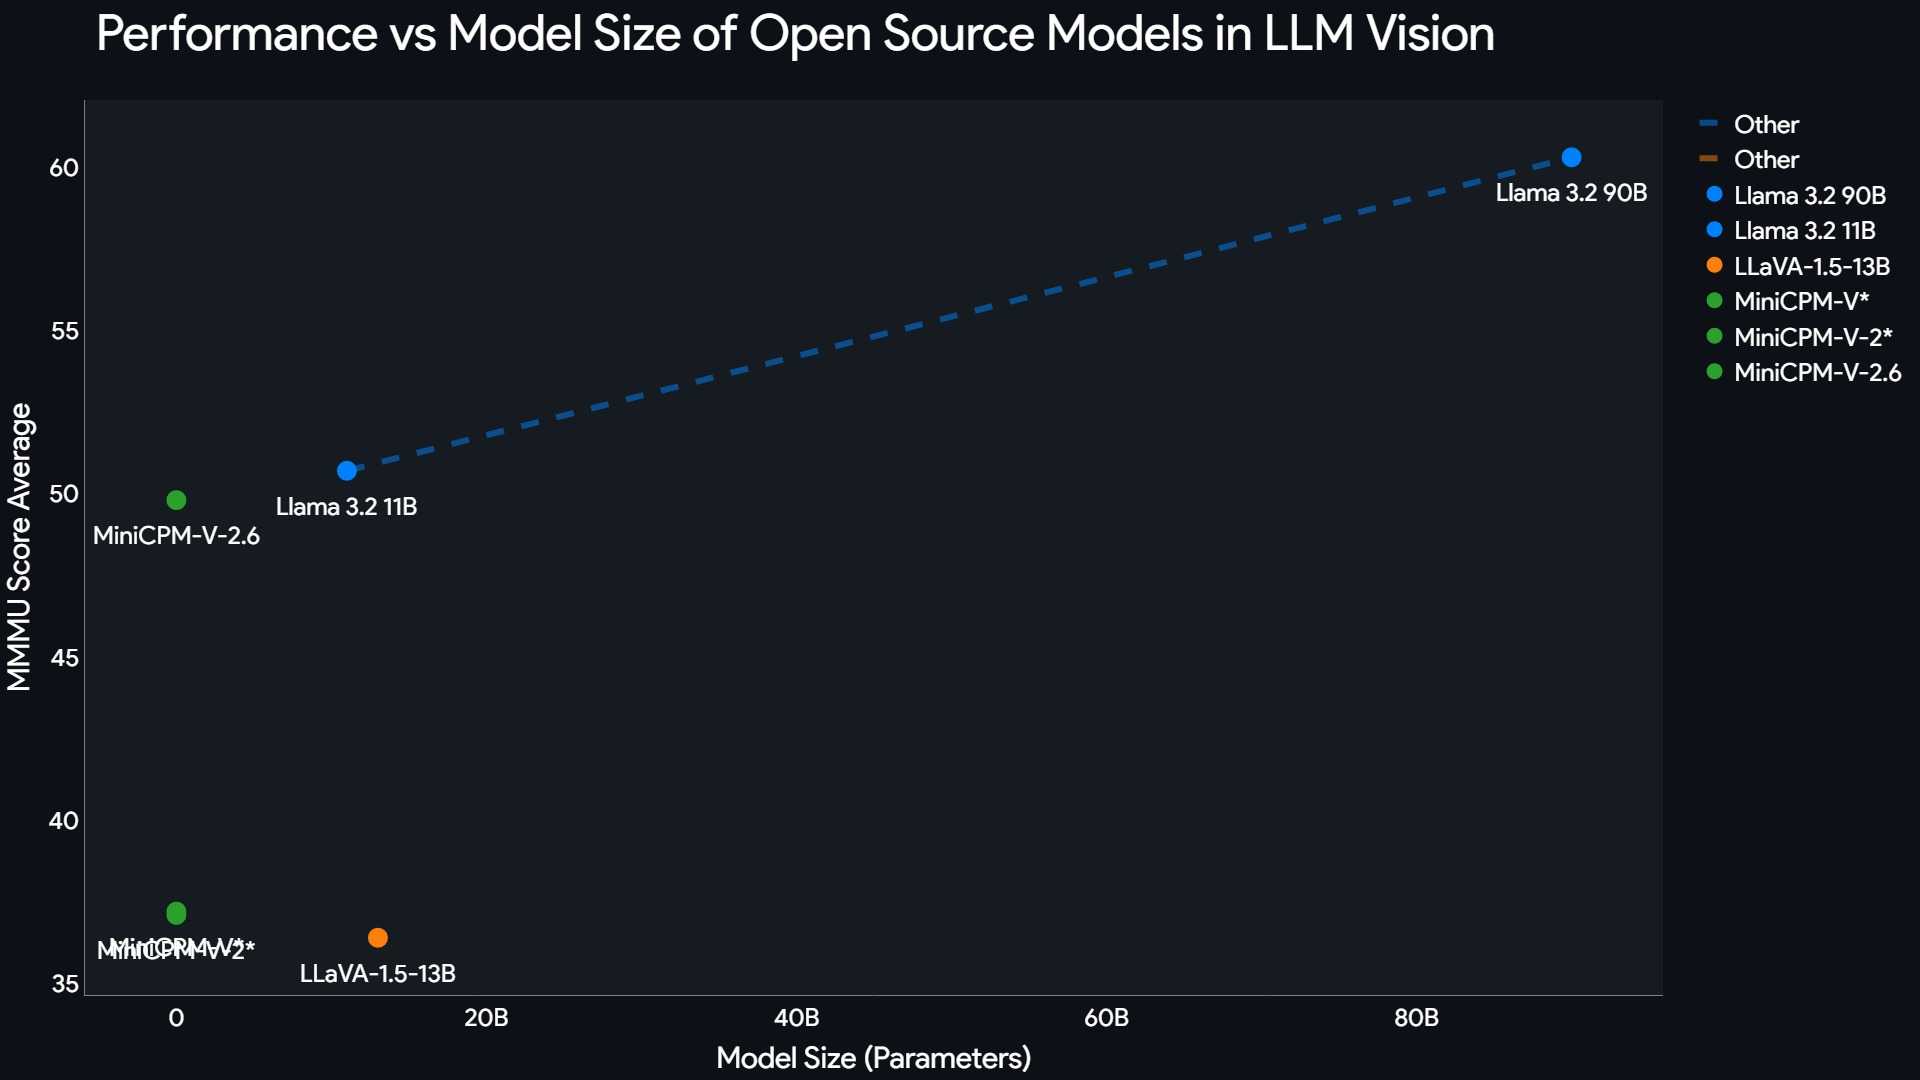
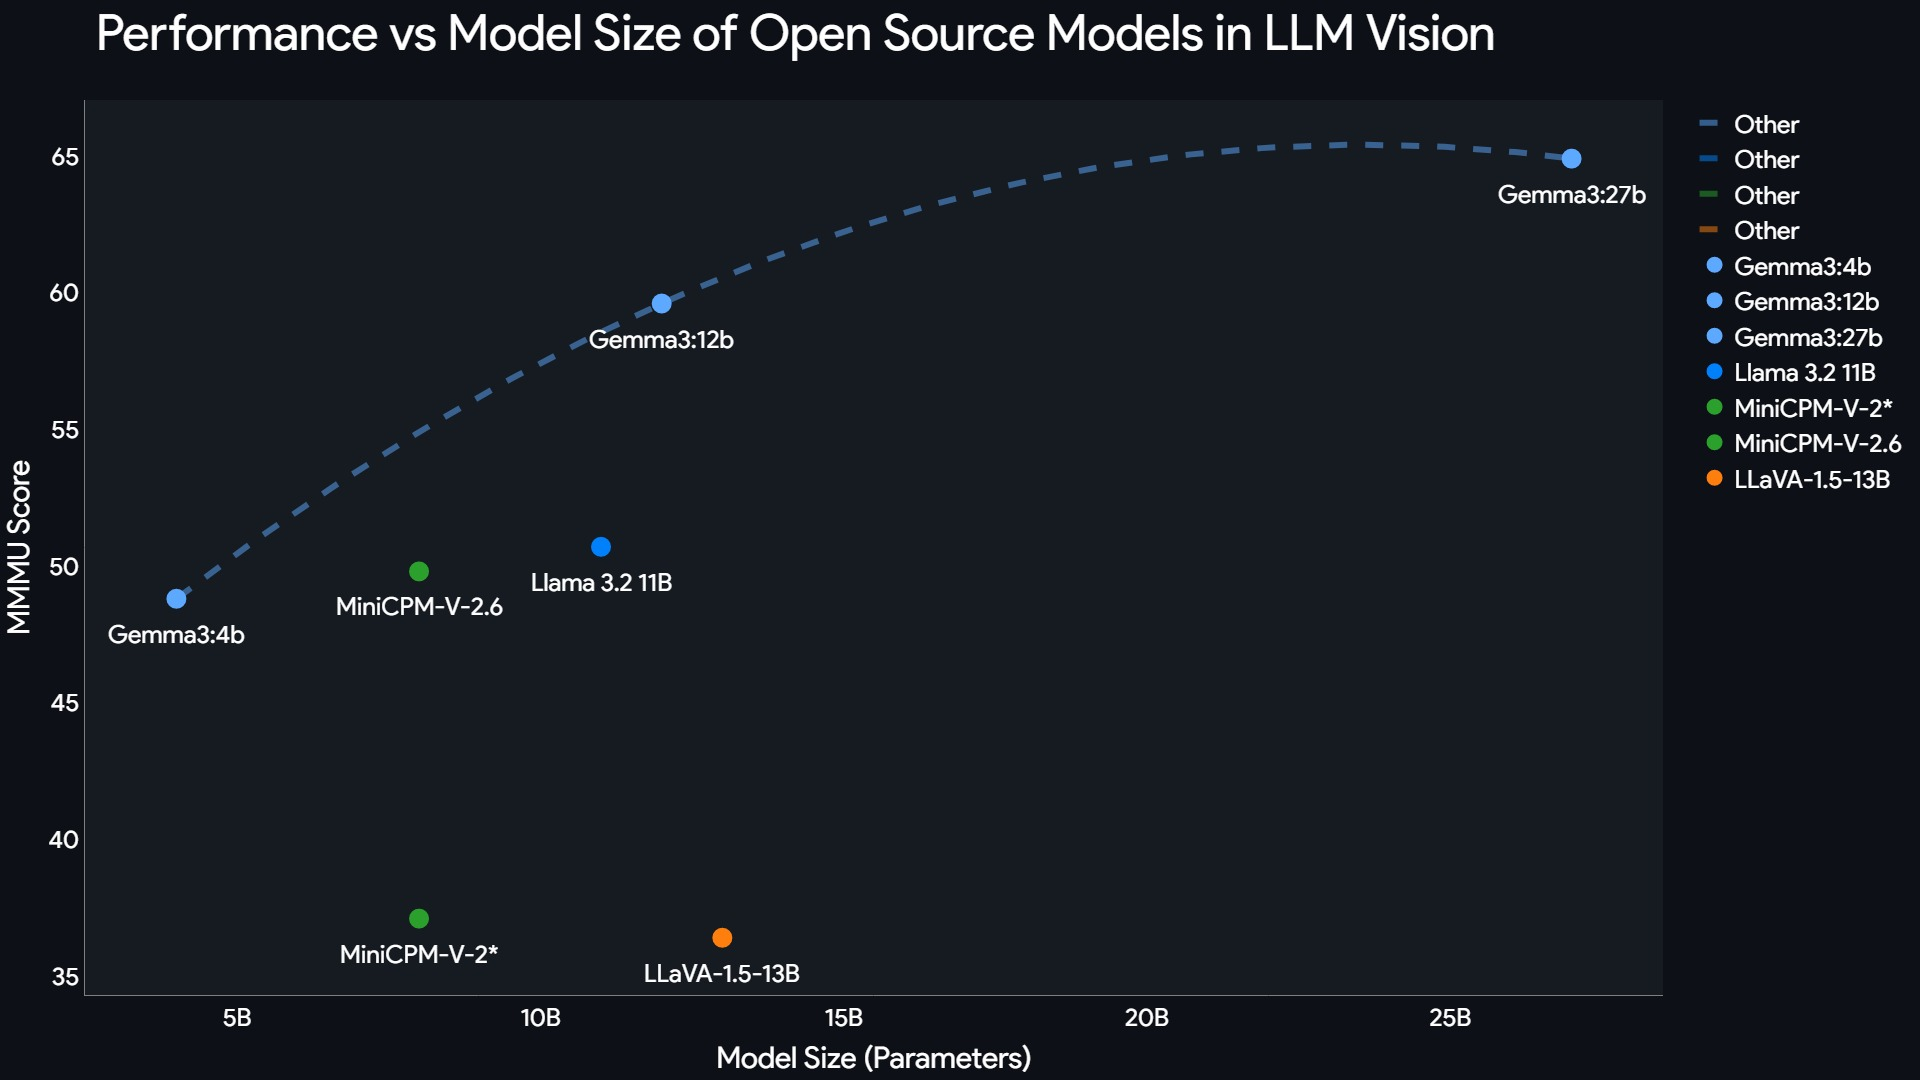
Update MMMU benchmark data and visualizations

diff --git a/benchmark_visualization/model_benchmark_visualizer.py b/benchmark_visualization/model_benchmark_visualizer.py
@@ -18,12 +18,18 @@ def read_benchmark_data(file_path="./benchmark_visualization/benchmark_data.csv"
 def category_name(model_name):
     if "GPT-4" in model_name:
         return 'OpenAI GPT-4'
+    elif model_name == 'o1':
+        return 'OpenAI o1'
+    elif "Claude 3.7" in model_name:
+        return 'Anthropic Claude 3.7'
     elif "Claude 3.5" in model_name:
         return 'Anthropic Claude 3.5'
     elif "Claude 3" in model_name:
         return 'Anthropic Claude 3'
     elif "Gemini 1.5" in model_name:
         return 'Google Gemini 1.5'
+    elif "Gemini 2.0" in model_name:
+        return 'Google Gemini 2.0'
     elif "Llama 3.2" in model_name:
         return 'Meta Llama 3.2'
     return 'Other'
@@ -36,34 +42,40 @@ def create_benchmark_visualization(df: pd.DataFrame):
         """Categories models based on name"""
         if "GPT-4" in model_name:
             return 'GPT-4'
+        elif "Claude 3.7" in model_name:
+            return 'Claude 3.7'
         elif "Claude 3.5" in model_name:
             return 'Claude 3.5'
         elif "Claude 3" in model_name:
             return 'Claude 3'
         elif "Gemini 1.5" in model_name:
             return 'Gemini 1.5'
+        elif "Gemini 2.0" in model_name:
+            return 'Gemini 2.0'
         return 'Other'
 
     # Categorize each model in the DataFrame
     df['Category'] = df['Model'].apply(categorize_model)
 
     # Set order for legend
-    category_order = ['GPT-4', 'Claude 3',
-                      'Claude 3.5', 'Gemini 1.5']
+    category_order = ['GPT-4', 'Claude 3.7', 'Claude 3.5',
+                      'Claude 3', 'Gemini 2.0', 'Gemini 1.5']
     df['Category'] = pd.Categorical(
         df['Category'], categories=category_order, ordered=True)
     df = df.sort_values('Category')
 
     # Set colors for different providers
     colors = {'GPT-4': '#00cbbf', 'Claude 3': '#d97857',
-              'Gemini 1.5': '#5da9ff', 'Claude 3.5': '#d4a27f', 'Other': 'gray'}
+              'Gemini 1.5': '#5da9ff', 'Gemini 2.0': '#5da9ff', 'Claude 3.5': '#d4a27f', 'Claude 3.7': '#d4a27f', 'Other': 'gray'}
 
     for category, group_df in df.groupby('Category'):
-        if category not in ['GPT-4', 'Claude 3', 'Claude 3.5', 'Gemini 1.5', 'Other']:
+        if category not in ['GPT-4', 'Claude 3', 'Claude 3.5', 'Claude 3.7', 'Gemini 2.0', 'Gemini 1.5', 'Other']:
             continue
 
         x = group_df['Cost'].astype(float)
         y = group_df['Overall'].astype(float)
+
+        print(f"Category: {category}, x: {x}, y: {y}")
 
         try:
             # Fit a polynomial
@@ -97,7 +109,7 @@ def create_benchmark_visualization(df: pd.DataFrame):
 
     fig.update_layout(title={'text': 'Performance vs Cost of Cloud-Based Models in LLM Vision',
                              'font': {'size': 50}},
-                      xaxis_title='$/1M Input Tokens', yaxis_title='MMMU Score Average',
+                      xaxis_title='$/1M Input Tokens', yaxis_title='MMMU Score',
                       paper_bgcolor='#0d1117', plot_bgcolor='#161b22',
                       font=dict(color='white', family='Product Sans', size=25),
                       xaxis=dict(color='white', linecolor='grey',
@@ -115,30 +127,34 @@ def create_benchmark_visualization(df: pd.DataFrame):
         """Categories open source models based on name"""
         if "Llama" in model_name:
             return 'Llama'
+        elif "Gemma" in model_name:
+            return 'Gemma'
         elif "LLaVA" in model_name:
             return 'LLaVA'
         elif "MiniCPM" in model_name:
             return 'MiniCPM'
+        elif 'Qwen' in model_name:
+            return 'Qwen'
         return 'Other'
 
     # Categorize each open source model in the DataFrame
     df['OpenSourceCategory'] = df['Model'].apply(categorize_open_source_model)
 
     # Set order for legend
-    open_source_category_order = ['Llama', 'LLaVA', 'MiniCPM']
+    open_source_category_order = ['Gemma', 'Llama', 'Qwen', 'MiniCPM', 'LLaVA']
     df['OpenSourceCategory'] = pd.Categorical(
         df['OpenSourceCategory'], categories=open_source_category_order, ordered=True)
     df = df.sort_values('OpenSourceCategory')
 
     # Set colors for different open source models
-    open_source_colors = {'Llama': '#0081fb',
-                          'LLaVA': '#ff7f0e', 'MiniCPM': '#2ca02c', 'Other': 'gray'}
+    open_source_colors = {'Gemma': '#5da9ff', 'Llama': '#0081fb',
+                          'LLaVA': '#ff7f0e', 'MiniCPM': '#2ca02c', 'Qwen': 'gray', 'Other': 'gray'}
 
     # Convert 'Size' column to float
     def convert_size_to_float(size_str):
         """Convert model size string to float"""
         size_str = size_str.strip()  # Remove leading/trailing spaces
-        if size_str == "-":
+        if size_str == "-" or size_str == "":
             return 0
         if size_str.endswith('B'):
             return float(size_str[:-1]) * 1e9
@@ -149,7 +165,7 @@ def create_benchmark_visualization(df: pd.DataFrame):
     df['Size'] = df['Size'].apply(convert_size_to_float)
 
     for category, group_df in df.groupby('OpenSourceCategory'):
-        if category not in ['Llama', 'LLaVA', 'MiniCPM']:
+        if category not in open_source_category_order:
             continue
 
         x = group_df['Size'].astype(float)
@@ -168,7 +184,7 @@ def create_benchmark_visualization(df: pd.DataFrame):
 
             # Plot the poly line
             fig_open_source.add_trace(go.Scatter(x=x_poly, y=y_poly, mode='lines',
-                          name=f"{category_name(category)}", line=dict(color=open_source_colors[category], width=6, dash='dash'), opacity=0.5))
+                                                 name=f"{category_name(category)}", line=dict(color=open_source_colors[category], width=6, dash='dash'), opacity=0.5))
         except np.linalg.LinAlgError:
             print(f"LinAlgError: SVD did not converge for category {category}")
             continue
@@ -177,30 +193,31 @@ def create_benchmark_visualization(df: pd.DataFrame):
     for index, model in df.iterrows():
         try:
             fig_open_source.add_trace(go.Scatter(x=[model['Size']], y=[model['Overall']],
-                                     mode='markers',  # Removed 'text' from mode
-                                     name=model['Model'], marker=dict(size=20, color=open_source_colors[model['OpenSourceCategory']])))
+                                                 mode='markers',  # Removed 'text' from mode
+                                                 name=model['Model'], marker=dict(size=20, color=open_source_colors[model['OpenSourceCategory']])))
 
         except Exception as e:
             continue
 
         # Add model name
         fig_open_source.add_annotation(x=model['Size'], y=model['Overall'],
-                           text=model['Model'],
-                           showarrow=False,
-                           yshift=-35)
+                                       text=model['Model'],
+                                       showarrow=False,
+                                       yshift=-35)
 
     fig_open_source.update_layout(title={'text': 'Performance vs Model Size of Open Source Models in LLM Vision',
-                             'font': {'size': 50}},
-                      xaxis_title='Model Size (Parameters)', yaxis_title='MMMU Score Average',
-                      paper_bgcolor='#0d1117', plot_bgcolor='#161b22',
-                      font=dict(color='white', family='Product Sans', size=25),
-                      xaxis=dict(color='white', linecolor='grey',
-                                 showgrid=False, zeroline=False),
-                      yaxis=dict(color='white', linecolor='grey',
-                                 showgrid=False, zeroline=False))
+                                         'font': {'size': 50}},
+                                  xaxis_title='Model Size (Parameters)', yaxis_title='MMMU Score',
+                                  paper_bgcolor='#0d1117', plot_bgcolor='#161b22',
+                                  font=dict(color='white',
+                                            family='Product Sans', size=25),
+                                  xaxis=dict(color='white', linecolor='grey',
+                                             showgrid=False, zeroline=False),
+                                  yaxis=dict(color='white', linecolor='grey',
+                                             showgrid=False, zeroline=False))
     # Save the plot as an image
     fig_open_source.write_image("benchmark_visualization/open_source_benchmark_visualization.jpg",
-                    width=1920, height=1080, scale=1)
+                                width=1920, height=1080, scale=1)
 
 
 if __name__ == "__main__":
